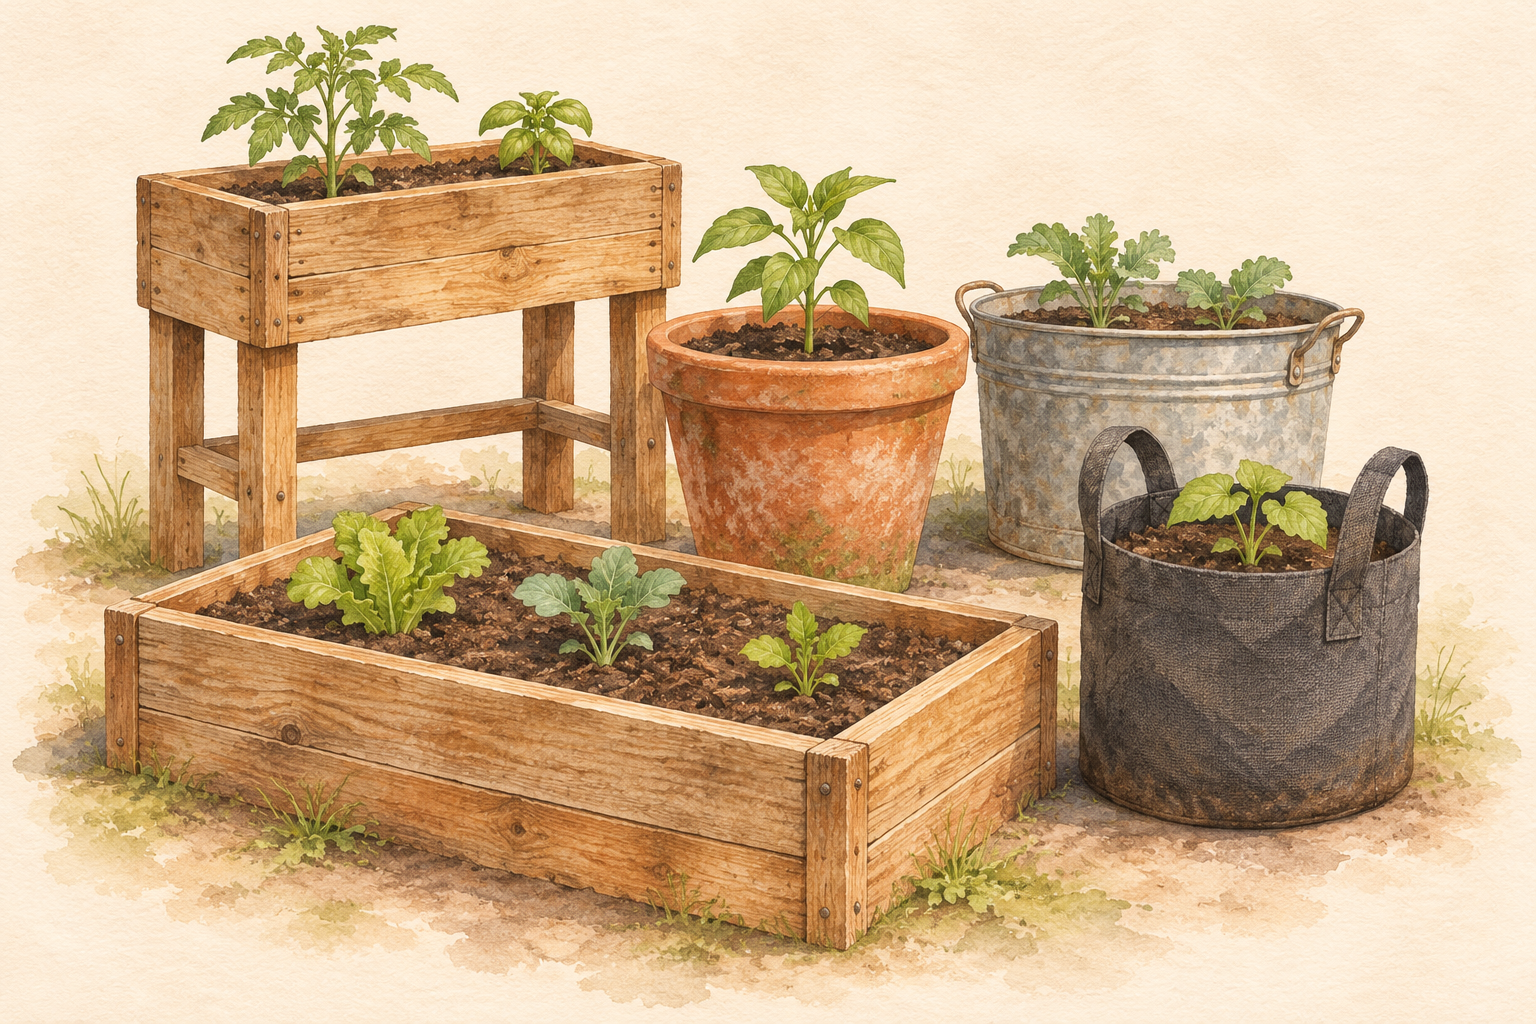
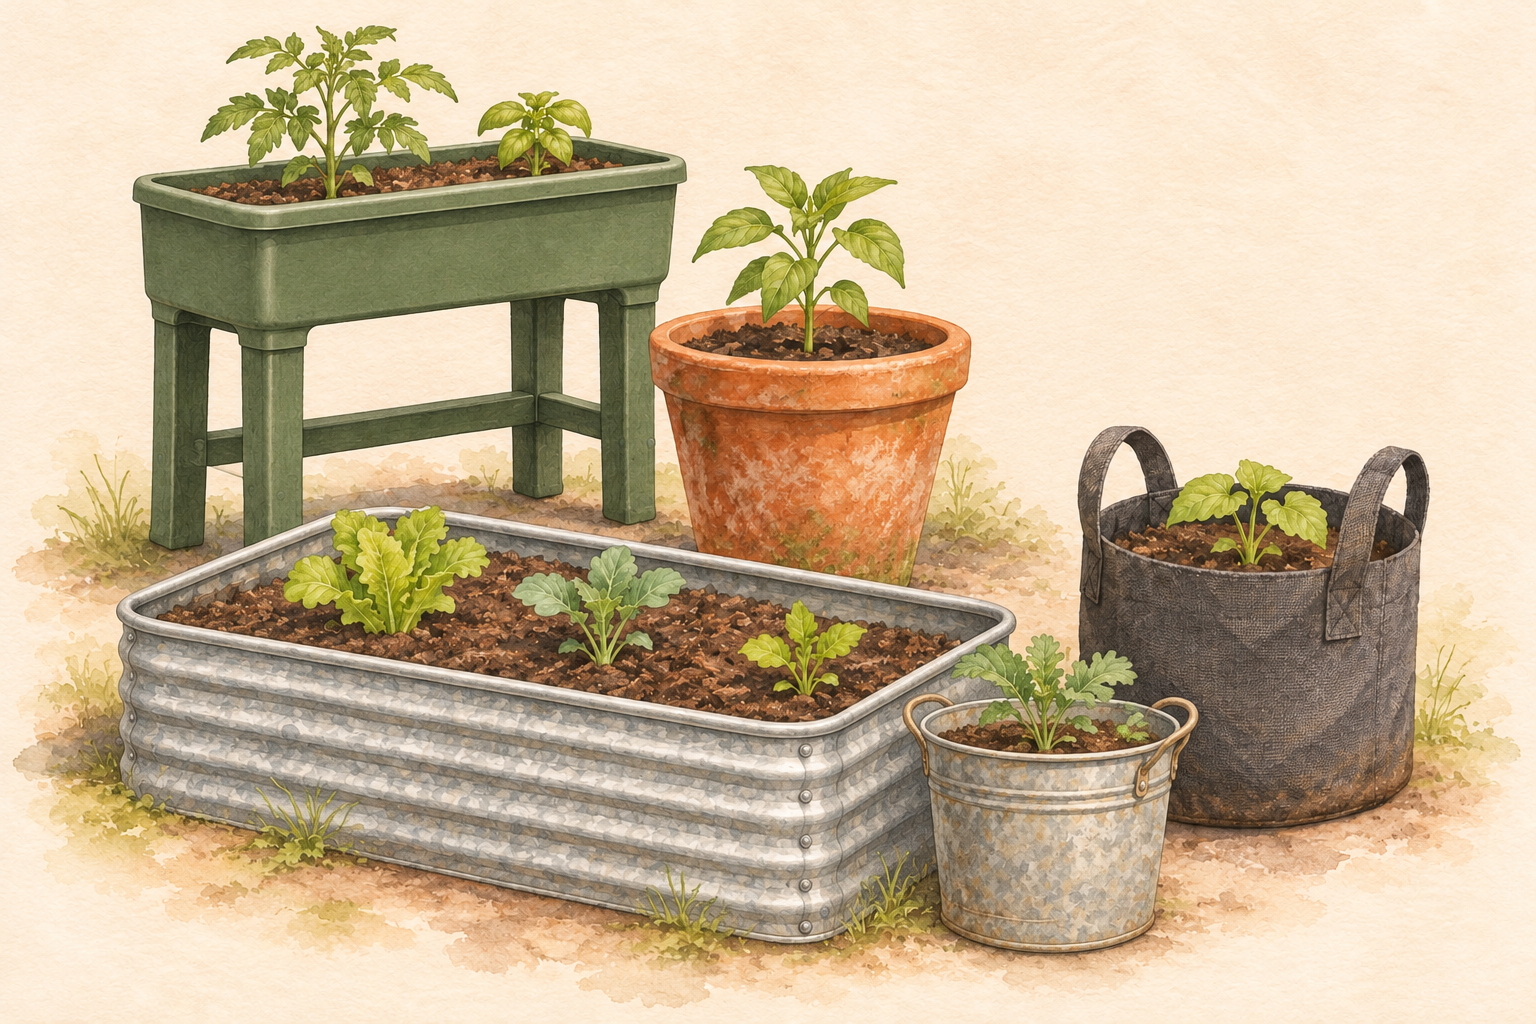
Refine beginner artwork and add colorful closing invitation

diff --git a/components/GardenLearning.tsx b/components/GardenLearning.tsx
@@ -45,7 +45,14 @@ export default function GardenLearning({kind,userId,garden,onFlowerGarden,onPlan
       <BeginnerClimate key={`${userId}:${garden?.id || "none"}:${garden?.location || ""}`} userId={userId} garden={garden} goal={goal}/>
       {help&&<section ref={startSectionRef} id="learning-start" className="learning-start"><h2>Let’s find your starting point</h2><form onSubmit={e=>{e.preventDefault();setStarted(true);}}><label>Where will you grow?<select value={space} onChange={e=>{setSpace(e.target.value);setStarted(false);}}><option value="containers">Containers, patio or balcony</option><option value="raised">Raised beds</option><option value="ground">In the ground</option></select></label><label>What would you like to grow?<select value={goal} onChange={e=>{setGoal(e.target.value as BeginnerGoal);setStarted(false);}}><option value="flowers">Flowers</option><option value="food">Vegetables and herbs</option><option value="mixed">A little of both</option></select></label><button type="submit" className="seasonal-button">Show my next steps</button></form>{started&&<div className="learning-next" role="status"><h3>Your starting path</h3><p>For your {space==="containers"?"container garden":space==="raised"?"raised bed":"in-ground garden"}, start with the space guide, then {space==="containers"?"container drainage and potting mix":"soil testing and drainage"}. Next, read timing and planting.</p><p>Use your local growing window above to decide what to prioritize. You can follow this reading path without a location.</p><div className="learning-actions"><button type="button" className="seasonal-outline" onClick={()=>setActiveGuide("space")}>Read the space guide</button>{goal!=="food"&&<button type="button" className="seasonal-outline" onClick={onFlowerGarden}>Explore Blooms</button>}</div></div>}</section>}
       <div className="learning-guide-grid">{beginnerGuides.map((g,i)=><Link key={g.id} href={`/beginners-guide/${g.id}`} target="_blank" rel="noopener noreferrer" aria-label={`Step ${i+1}: ${g.title} (opens in a new tab)`} className="learning-guide-card"><span className="modern-eyebrow">Step {i+1}</span><h2>{g.title}</h2><p>{g.intro}</p><span className="seasonal-link">Read guide ↗</span></Link>)}</div>
-      <section className="learning-note" aria-labelledby="beginner-start-garden-heading"><h2 id="beginner-start-garden-heading">Start your garden</h2><p>Put the six steps into practice with a simple garden layout.</p><div className="learning-actions"><button type="button" className="seasonal-button" onClick={onPlan}>Start Your Garden</button></div></section>
+      <section className="learning-note beginner-start-garden" aria-labelledby="beginner-start-garden-heading">
+        <div className="beginner-start-garden-copy"><h2 id="beginner-start-garden-heading">Start your garden</h2><p>Put the six steps into practice with a simple garden layout.</p><div className="learning-actions"><button type="button" className="seasonal-button" onClick={onPlan}>Start Your Garden</button></div></div>
+        <div className="beginner-start-garden-art" aria-hidden="true">
+          <Image className="beginner-start-garden-tomato" src="/planting-now/tomato.webp" width={640} height={640} alt="" sizes="(max-width: 600px) 35vw, 160px"/>
+          <Image className="beginner-start-garden-basil" src="/planting-now/basil.webp" width={640} height={640} alt="" sizes="(max-width: 600px) 28vw, 130px"/>
+          <Image className="beginner-start-garden-zinnia" src="/planting-now/zinnia.webp" width={640} height={640} alt="" sizes="(max-width: 600px) 40vw, 190px"/>
+        </div>
+      </section>
       {selected&&<Dialog title={selected.title} onClose={()=>setActiveGuide("")}><BeginnerGuideArticle guide={selected} userId={userId} mode="dialog" onPlan={onPlan} onExplorePlants={onExplorePlants} onNext={setActiveGuide}/></Dialog>}
     </>}
 

diff --git a/app/globals.css b/app/globals.css
@@ -2328,3 +2328,14 @@ html[data-season] {--background:#f8f6f0;--surface:#fffdf8;--surface-alt:#f1eee5;
       linear-gradient(to bottom, #0000 0%, #000 16%, #000 84%, #0000 100%);
   }
 }
+
+/* Decorative planting vignette belongs only to the Beginner overview's closing invitation. */
+.learning-note.beginner-start-garden {display:grid;grid-template-columns:minmax(0,1fr) minmax(240px,.85fr);align-items:center;gap:24px;padding:clamp(24px,4vw,36px);background:#f5f0e3;overflow:hidden;}
+.beginner-start-garden-copy {min-width:0;}
+.beginner-start-garden-art {position:relative;isolation:isolate;width:100%;max-width:360px;height:210px;justify-self:end;pointer-events:none;}
+.beginner-start-garden-art::before {content:"";position:absolute;inset:16px 4px 4px;border-radius:50%;background:radial-gradient(ellipse at 75% 30%,#f0d5bc80,transparent 65%),radial-gradient(ellipse at 20% 70%,#dbe4bd90,transparent 70%);}
+.beginner-start-garden-art img {position:absolute;object-fit:contain;mix-blend-mode:multiply;height:auto;mask-image:radial-gradient(ellipse at center,#000 52%,#000c 66%,transparent 75%);}
+.beginner-start-garden-tomato {width:46%;left:0;bottom:16px;transform:rotate(-8deg);}
+.beginner-start-garden-basil {width:36%;left:30%;bottom:0;transform:rotate(5deg);z-index:1;}
+.beginner-start-garden-zinnia {width:53%;right:0;top:0;transform:rotate(7deg);}
+@media(max-width:600px){.learning-note.beginner-start-garden{grid-template-columns:minmax(0,1fr);gap:14px;}.beginner-start-garden-art{justify-self:center;max-width:310px;height:190px;}}

diff --git a/lib/beginner-guide-presentation.ts b/lib/beginner-guide-presentation.ts
@@ -8,7 +8,7 @@ export type BeginnerGuidePresentation = {
 export const beginnerGuidePresentation: Record<string, BeginnerGuidePresentation> = {
   space: {
     label: 'Space',
-    image: { src: '/beginner-guide-art/space.png', alt: 'Watercolor of wooden raised beds, containers and fabric grow bags in varied heights and materials', width: 1536, height: 1024 },
+    image: { src: '/beginner-guide-art/space.png', alt: 'Watercolor of a plastic elevated planter, galvanized raised bed and bucket, terracotta pot and fabric grow bag', width: 1536, height: 1024 },
     stepTitles: ['Watch the light', 'Match plants to sunlight', 'Choose your growing space', 'Keep your first project small'],
   },
   timing: {
@@ -33,7 +33,7 @@ export const beginnerGuidePresentation: Record<string, BeginnerGuidePresentation
   },
   care: {
     label: 'Care',
-    image: { src: '/flower-guides/care.webp', alt: 'Watercolor of flowering plants beside a watering can and garden snips', width: 1536, height: 1024 },
+    image: { src: '/beginner-guide-art/care.png', alt: 'Watercolor of tomatoes, sweet basil and sweet alyssum beside a watering can and garden snips', width: 1536, height: 1024 },
     stepTitles: ['Check moisture regularly', 'Water thoroughly, then let it drain', 'Adjust as plants grow', 'Look closely and keep notes'],
   },
 };

diff --git a/components/GardenApp.tsx b/components/GardenApp.tsx
@@ -1,6 +1,5 @@
 "use client";
 
-import Link from "next/link";
 import { useEffect, useState, type FormEvent } from "react";
 import type { Session } from "@supabase/supabase-js";
 import { supabase } from "@/lib/supabase";
@@ -227,7 +226,6 @@ function Welcome({ authError, onGuest, savingGuest, initialMode }: { authError: 
     <main className="seasonal-page min-h-screen text-[var(--foreground)]">
       <div className="mx-auto max-w-7xl px-5 py-8 sm:px-8">
         <GardenHeader gardenYear={new Date().getFullYear()} />
-        <Link href="/flower-corner" className="seasonal-outline mt-5 inline-flex min-h-11 items-center rounded-xl border px-4 py-3 font-semibold">Explore Flower Corner — no account needed →</Link>
         <section className="mt-10 grid items-center gap-10 py-5 lg:grid-cols-[1.2fr_1fr] lg:py-12">
           <div className="landing-garden-hero">
             <div className="landing-garden-art" aria-hidden="true" />
